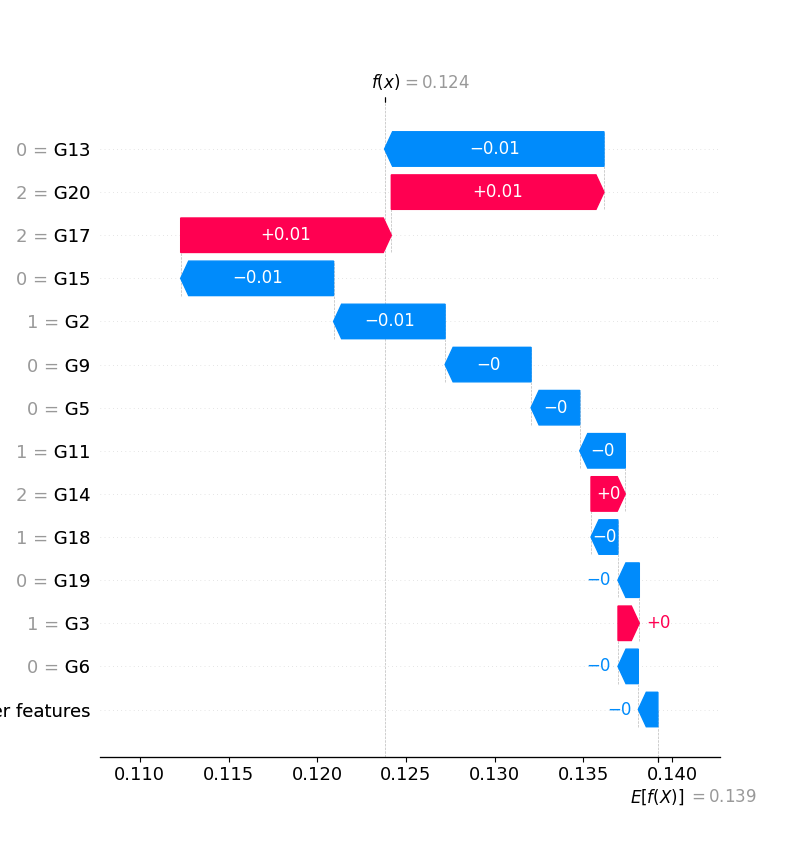
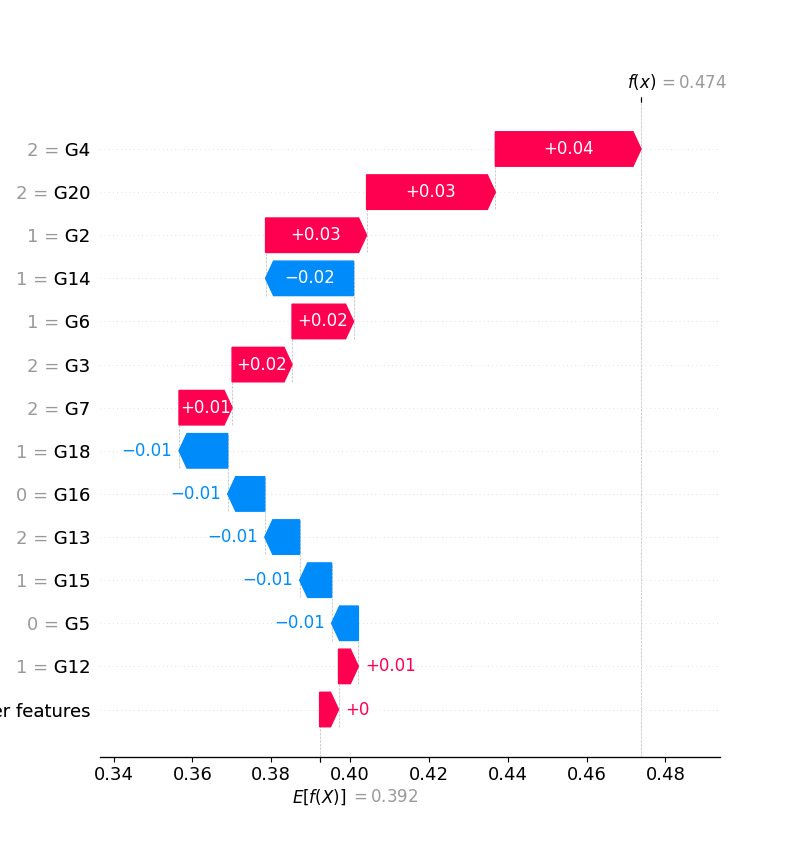
typo: changed uniform to normal distribution

diff --git a/shap_simulation_binomial_noised.py b/shap_simulation_binomial_noised.py
@@ -8,7 +8,7 @@ import matplotlib.pyplot as plt
 
 class MMatrix:
     def __init__(self):
-        np.random.seed(1)
+        np.random.seed(123)
         self.N = 1000 #np.random.randint(1000, 5001)
         self.M = 20 #np.random.randint(10, 101)
 
@@ -25,13 +25,13 @@ class MMatrix:
         self.genotype_matrix = np.empty((self.N, self.M))
 
         for i in range(0, self.M):
-            p = np.random.random() #p is fixed column-wise
+            p = np.random.uniform(0, 1) #p is fixed column-wise
             for j in range(0, self.N):
                 self.genotype_matrix[j][i] = np.random.binomial(2, p)
 
     def simulatePhenotypeInfinitesimally(self):
         for i in range(self.M):
-            self.inf_beta_array = np.append(self.inf_beta_array, np.random.uniform(0, self.sigma_g_squared/self.M))
+            self.inf_beta_array = np.append(self.inf_beta_array, np.random.normal(0, self.sigma_g_squared/self.M))
 
         transposed_matrix = self.inf_beta_array.transpose()
 
@@ -40,7 +40,7 @@ class MMatrix:
 
         #populate epsilon (noise) array)
         for i in range(self.N):
-            self.inf_epsilon_array = np.append(self.inf_epsilon_array, np.random.uniform(0, self.sigma_e_squared))
+            self.inf_epsilon_array = np.append(self.inf_epsilon_array, np.random.normal(0, self.sigma_e_squared))
 
         #post-noise simualted phenotype
         self.simulate_inf_phenotype_noised = np.add(self.simulate_inf_phenotype, self.inf_epsilon_array)
@@ -48,7 +48,7 @@ class MMatrix:
     def simulatePhenotypeFinitesimally(self):
         for i in range(self.M):
             if sp.isprime(i): #the isprime condition can be changed to whatever SNPs you want to be included
-                self.uninf_beta_array = np.append(self.uninf_beta_array, np.random.uniform(0, self.sigma_g_squared/self.M))
+                self.uninf_beta_array = np.append(self.uninf_beta_array, np.random.normal(0, self.sigma_g_squared/self.M))
             else:
                 self.uninf_beta_array = np.append(self.uninf_beta_array, 0.0)
 
@@ -59,7 +59,7 @@ class MMatrix:
 
         #populate epsilon (noise) array)
         for i in range(self.N):
-            self.uninf_epsilon_array = np.append(self.uninf_epsilon_array, np.random.uniform(0, self.sigma_e_squared))
+            self.uninf_epsilon_array = np.append(self.uninf_epsilon_array, np.random.normal(0, self.sigma_e_squared))
 
         #post-noise simualted phenotype
         self.simulate_uninf_phenotype_noised = np.add(self.simulate_uninf_phenotype, self.uninf_epsilon_array)
